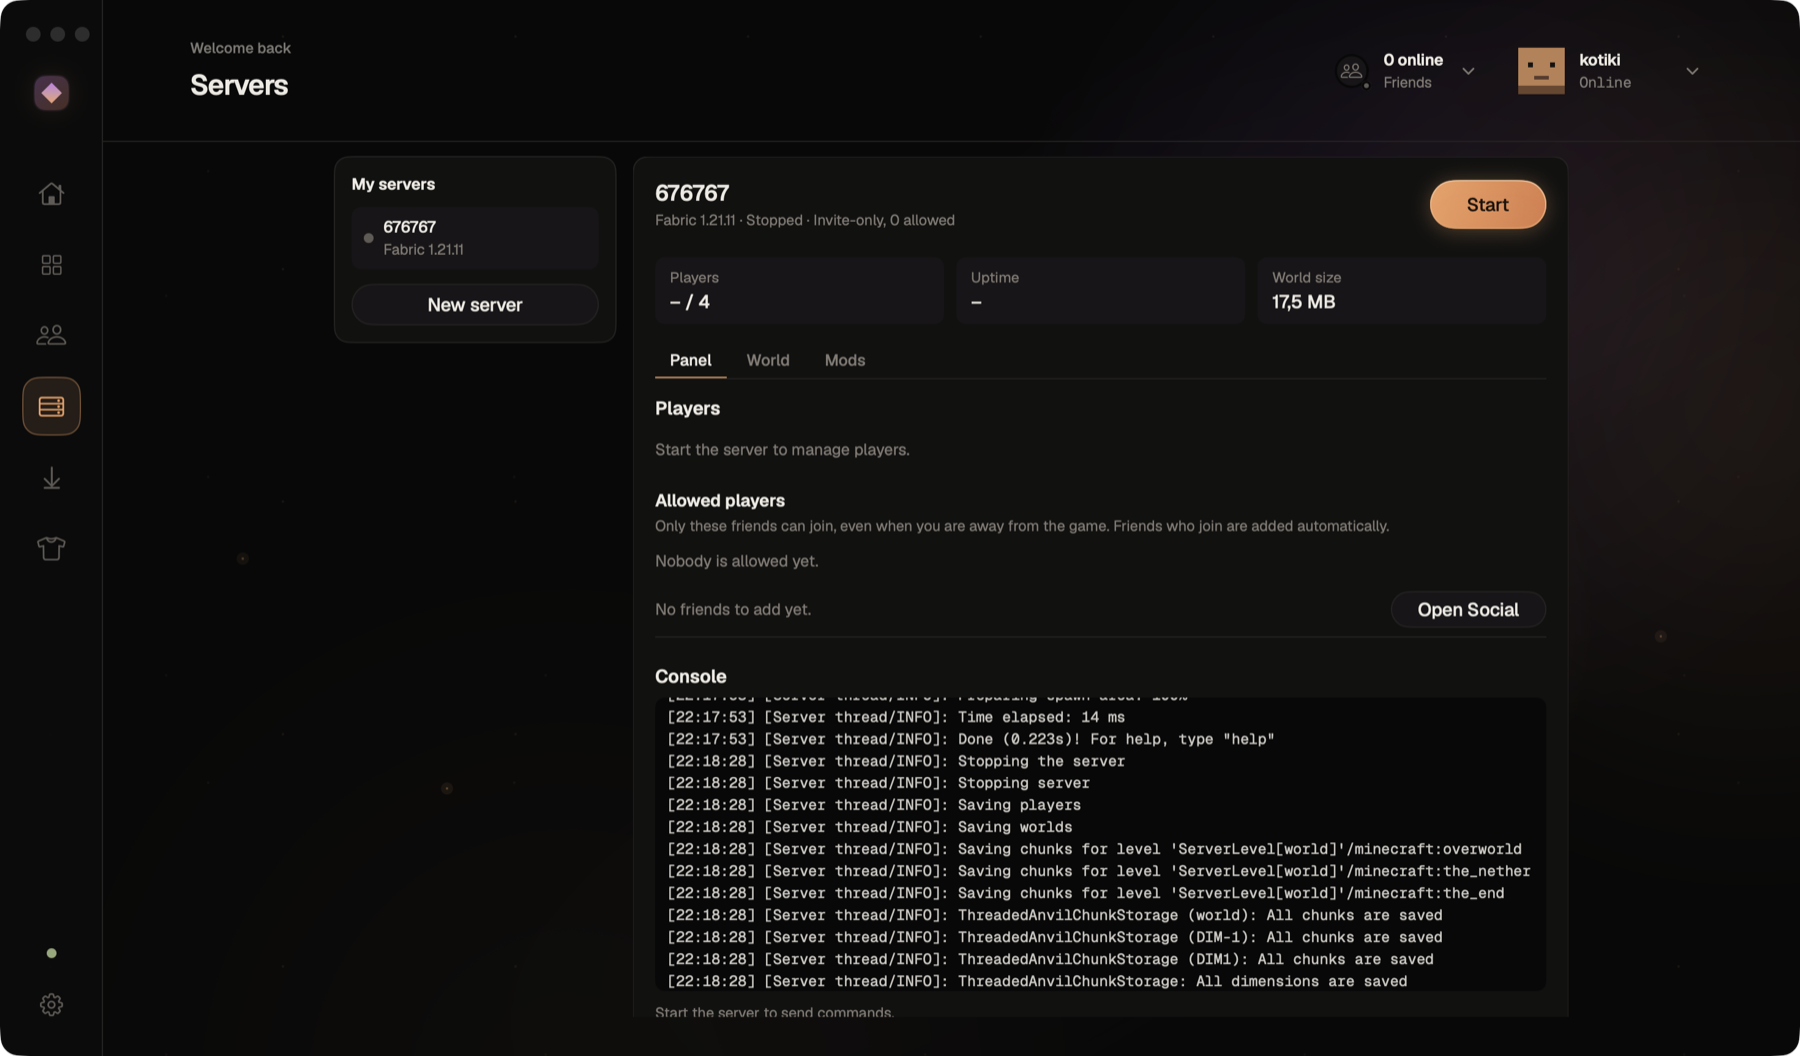
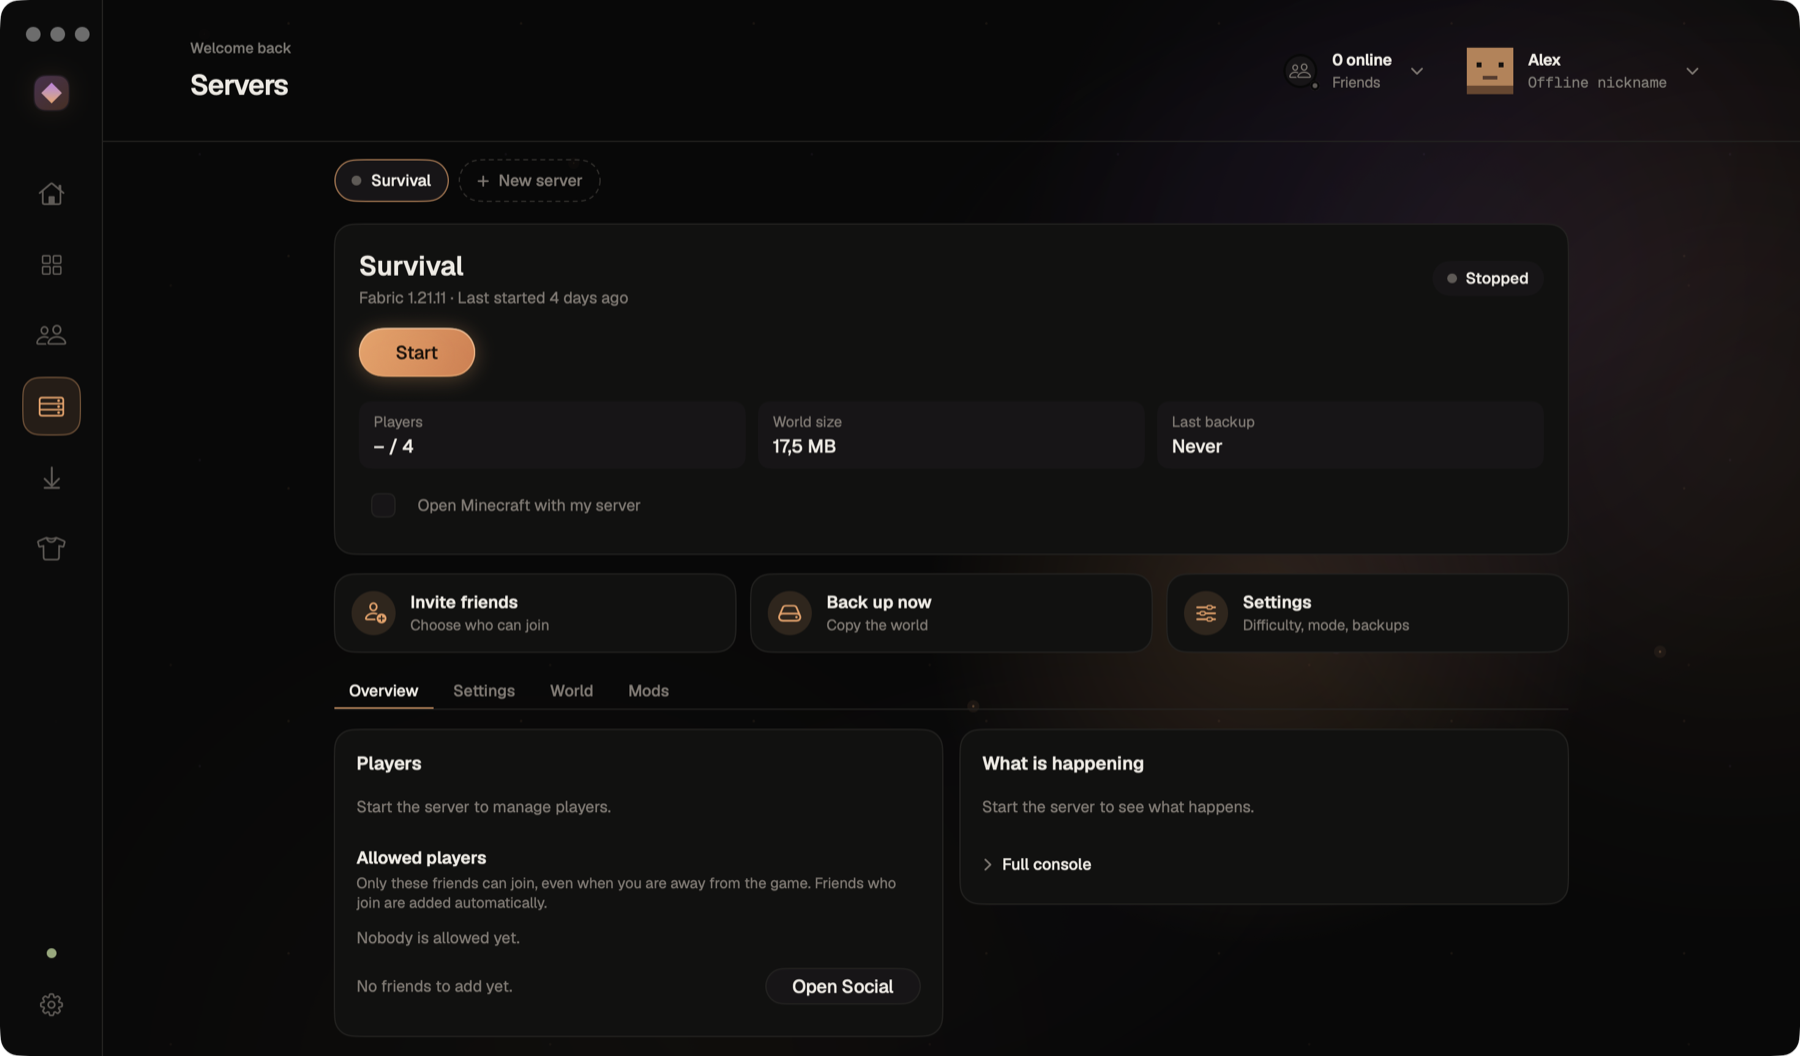
README: new Servers and Settings screenshots (neutral names), updated captions

diff --git a/README.ru.md b/README.ru.md
@@ -71,10 +71,10 @@
   </tr>
   <tr>
     <td align="center"><img src="docs/screenshots/social.png" alt="Social: друзья, приглашения, лобби" width="430"><br><sub><b>Social</b>: друзья, приглашения и лобби в одном месте</sub></td>
-    <td align="center"><img src="docs/screenshots/servers.png" alt="Servers: панель, разрешённые игроки, консоль" width="430"><br><sub><b>Servers</b>: панель, разрешённые игроки и консоль</sub></td>
+    <td align="center"><img src="docs/screenshots/servers.png" alt="Servers: чипы серверов, карточка статуса, быстрые действия, игроки и события" width="430"><br><sub><b>Servers</b>: карточка статуса, быстрые действия, игроки и что происходит</sub></td>
   </tr>
   <tr>
-    <td align="center" colspan="2"><img src="docs/screenshots/settings.png" alt="Настройки на одной прокручиваемой странице с боковым меню" width="430"><br><sub><b>Настройки</b>: одна страница, боковое меню идёт за вами</sub></td>
+    <td align="center" colspan="2"><img src="docs/screenshots/settings.png" alt="Настройки: разделы с иконками, поиск и карточки" width="430"><br><sub><b>Настройки</b>: разделы с иконками и поиск</sub></td>
   </tr>
 </table>
 

diff --git a/README.uk.md b/README.uk.md
@@ -71,10 +71,10 @@
   </tr>
   <tr>
     <td align="center"><img src="docs/screenshots/social.png" alt="Social: друзі, запрошення, лобі" width="430"><br><sub><b>Social</b>: друзі, запрошення та лобі в одному місці</sub></td>
-    <td align="center"><img src="docs/screenshots/servers.png" alt="Servers: панель, дозволені гравці, консоль" width="430"><br><sub><b>Servers</b>: панель, дозволені гравці та консоль</sub></td>
+    <td align="center"><img src="docs/screenshots/servers.png" alt="Servers: чипи серверів, картка статусу, швидкі дії, гравці та події" width="430"><br><sub><b>Servers</b>: картка статусу, швидкі дії, гравці та що відбувається</sub></td>
   </tr>
   <tr>
-    <td align="center" colspan="2"><img src="docs/screenshots/settings.png" alt="Налаштування на одній сторінці з прокруткою та бічним меню" width="430"><br><sub><b>Налаштування</b>: одна сторінка, бічне меню йде за вами</sub></td>
+    <td align="center" colspan="2"><img src="docs/screenshots/settings.png" alt="Налаштування: розділи з іконками, пошук і картки" width="430"><br><sub><b>Налаштування</b>: розділи з іконками та пошук</sub></td>
   </tr>
 </table>
 

diff --git a/README.md b/README.md
@@ -71,10 +71,10 @@ The full history is in the [changelog](CHANGELOG.md).
   </tr>
   <tr>
     <td align="center"><img src="docs/screenshots/social.png" alt="Social: friends, invitations, lobbies" width="430"><br><sub><b>Social</b>: friends, invitations and lobbies in one place</sub></td>
-    <td align="center"><img src="docs/screenshots/servers.png" alt="Servers: panel, allowed players, console" width="430"><br><sub><b>Servers</b>: a panel, allowed players and the console</sub></td>
+    <td align="center"><img src="docs/screenshots/servers.png" alt="Servers: server chips, status card, quick actions, players and activity" width="430"><br><sub><b>Servers</b>: status card, quick actions, players and what is happening</sub></td>
   </tr>
   <tr>
-    <td align="center" colspan="2"><img src="docs/screenshots/settings.png" alt="Settings on one scrolling page with a side navigation" width="430"><br><sub><b>Settings</b>: one page, a side menu that follows you</sub></td>
+    <td align="center" colspan="2"><img src="docs/screenshots/settings.png" alt="Settings with icon sections, search and plain cards" width="430"><br><sub><b>Settings</b>: sections with icons and a search field</sub></td>
   </tr>
 </table>
 
